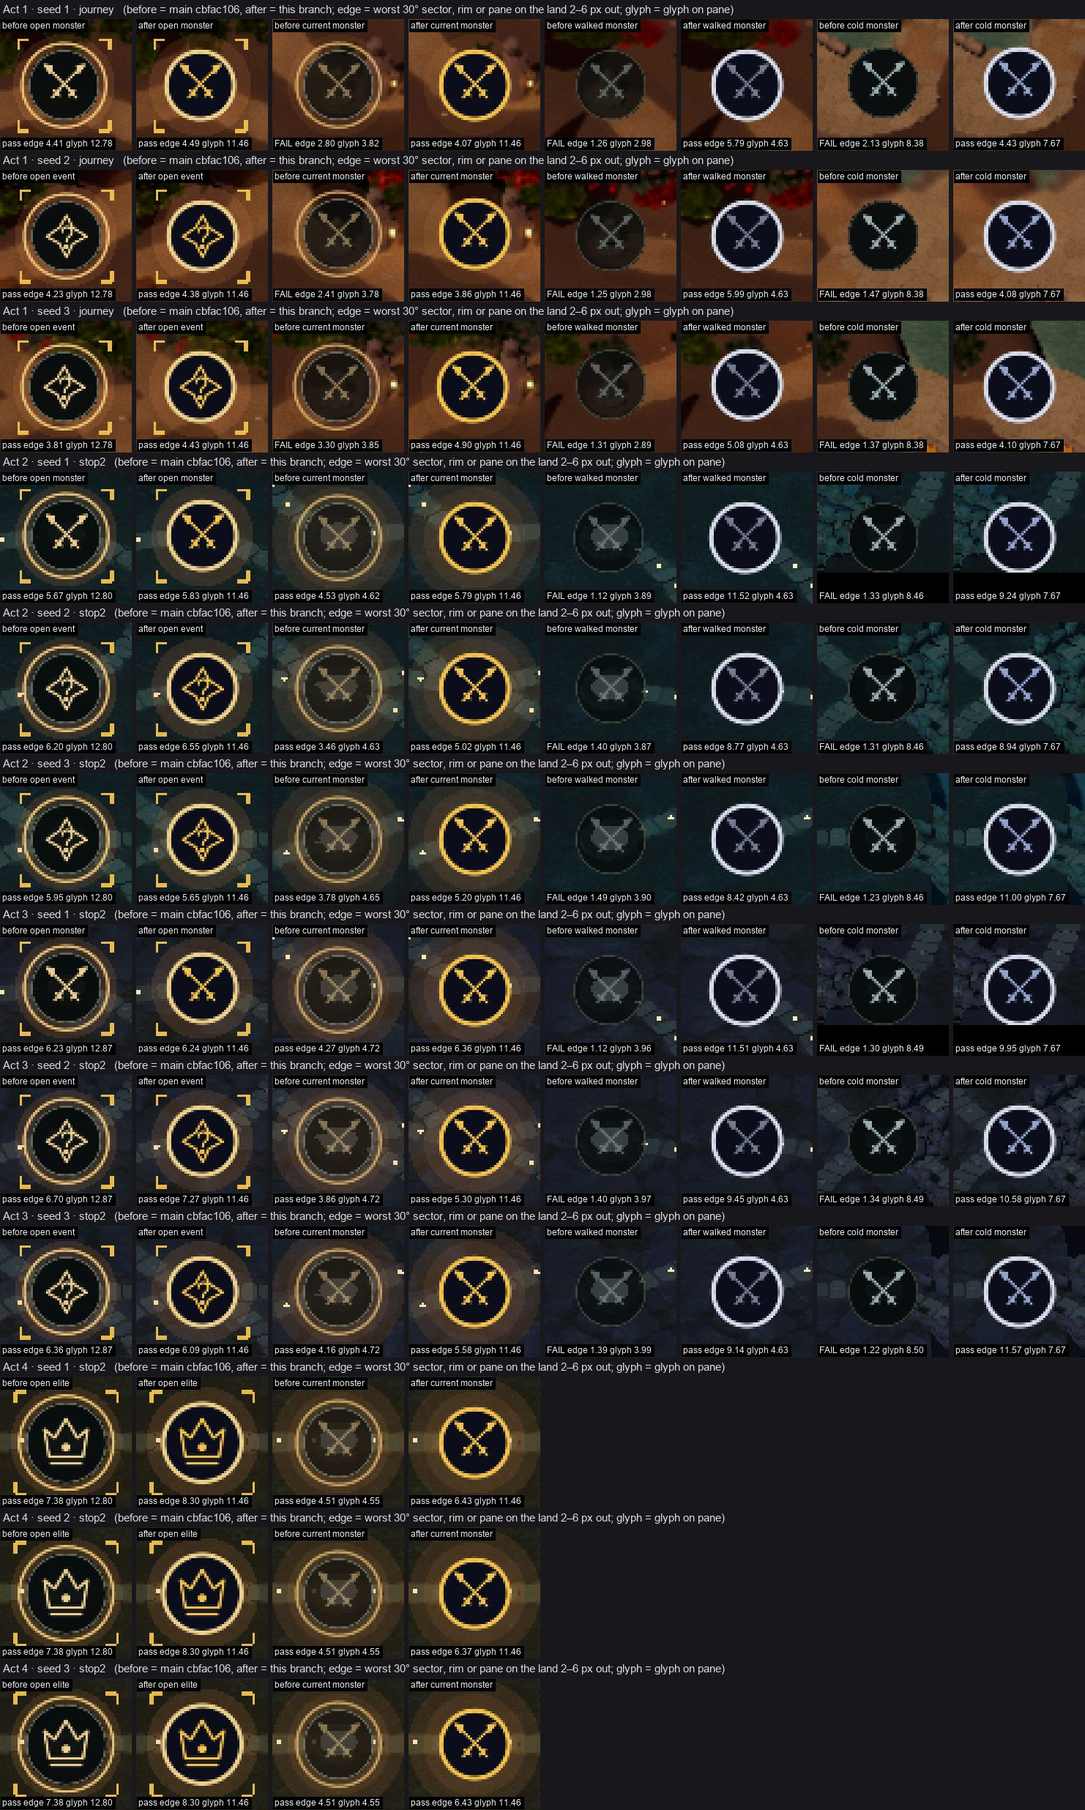
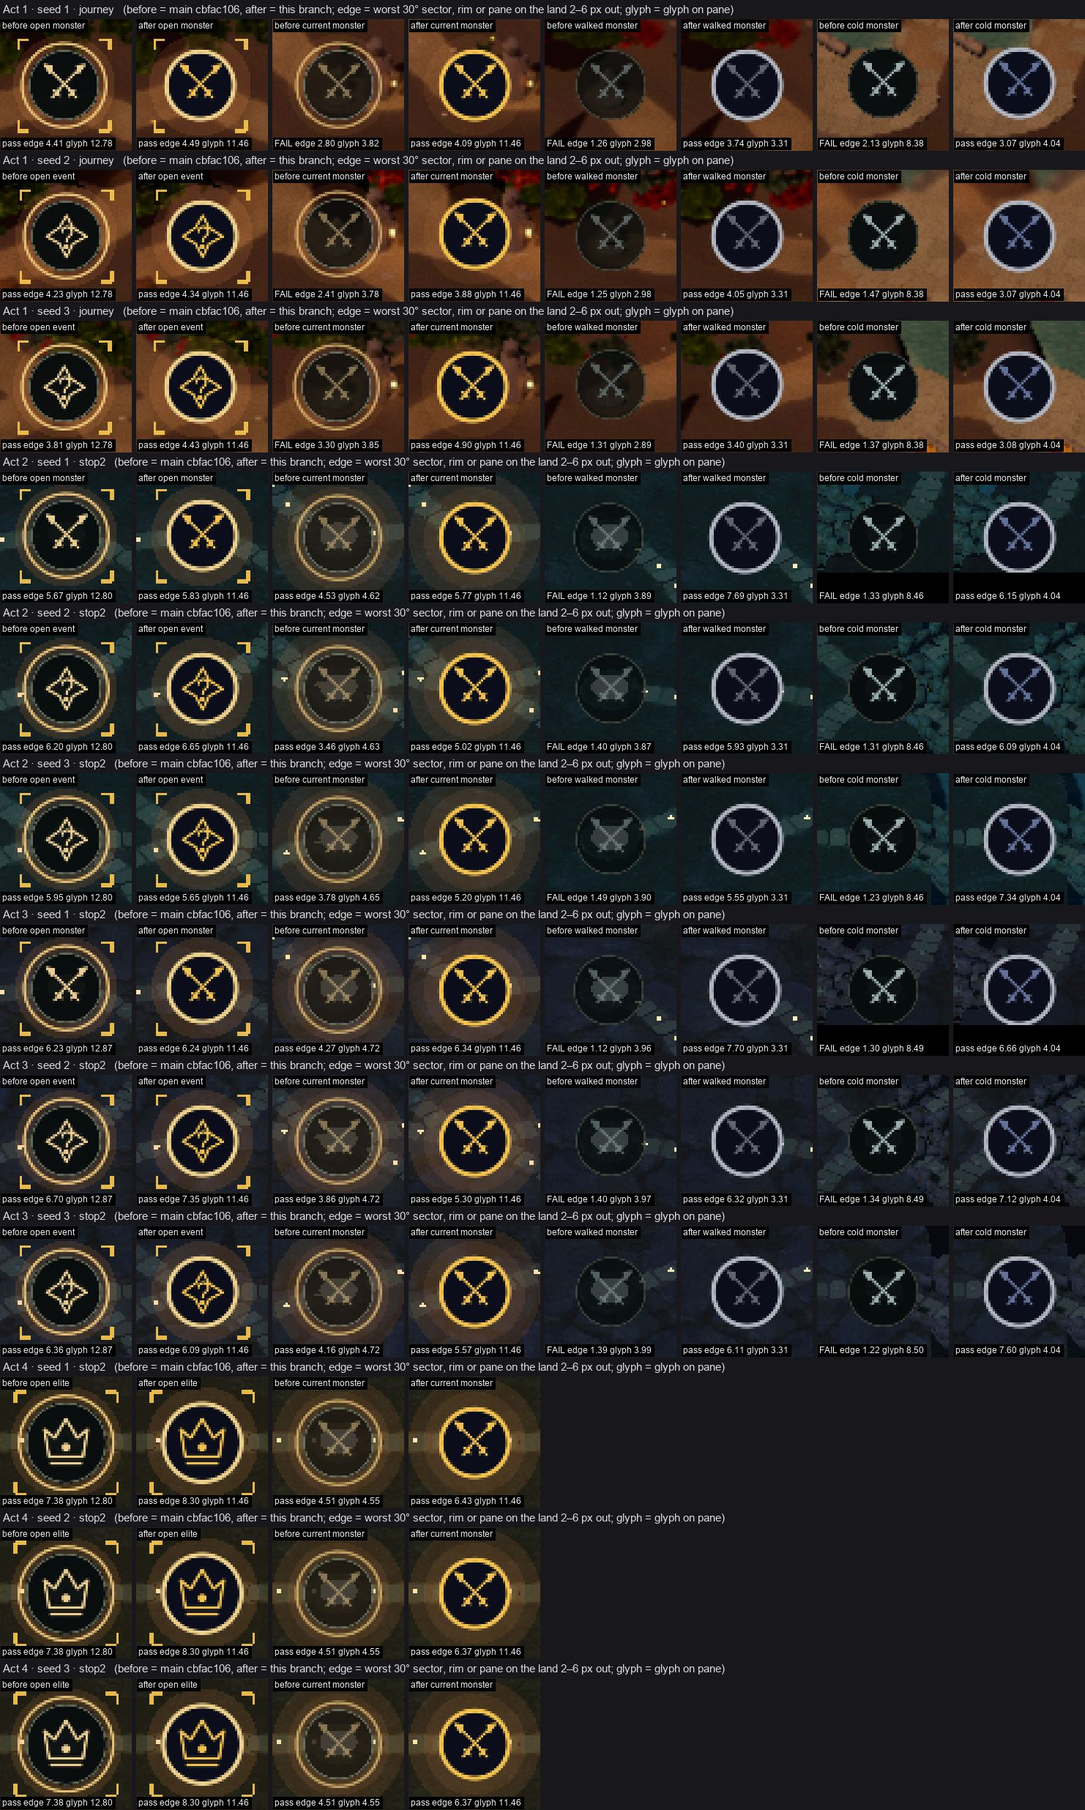
docs(map): the quieted waystones' sheets — salience at every act's farthest stop, the gate re-run, the A12 lines named (#679)
Re-made stills and crops from the revision's full sweep (Acts I-IV, seeds 1-3,
both shapes, every stop: 1,367 judged, 0 fail; main 1,226 of 1,368 fail), and
salience sheets of each act at its farthest stop, before | first head |
revision. The README carries the new tokens with their luminances and ratios,
the rim widths per state and shape, the worst case per state, the mutation
proof of the new hierarchy and width assertions, and names the pre-existing
A12 shader errors (map_mineral.gdshader's samplers in
SceneForwardMobileShaderRD) for #660.

Claude-Session: https://claude.ai/code/session_01VDGdkk2q7MUbD7C7M9D7go

diff --git a/docs/reviews/map-tokens-679/README.md b/docs/reviews/map-tokens-679/README.md
@@ -1,47 +1,66 @@
 # Waystone tokens (#679): before and after
 
-Issue #679, part of the map programme #660. Before is main at `cbfac106`;
-after is this branch. Everything here was measured on the Mac (M1 Max).
+Issue #679, part of the map programme #660. Before is main at `cbfac106`; the
+first head is `a3e2f0dd`; after is this branch's revision, which quiets the
+stones the player cannot choose (the orchestrator's design revision of
+5 October 2026). Everything here was measured on the Mac (M1 Max).
 
 ## The design as built
 
 Every state is an opaque disc in `LeadlightTokens.INK` with a thin light rim
-drawn inside the pane's radius (`GlassWaystone.RIM_W`, 3.5 local px: 2.0 px on
-the phone, 3.2 px on the pad), so the token covers no more ground than it did.
-There is no contact shadow (below). The ember halo of an open or current stone
-and the focus brackets are unchanged.
+drawn inside the pane's radius, so the token covers no more ground than it
+did. There is no contact shadow (below). The ember halo of an open or current
+stone and the focus brackets are unchanged.
 
-| State | Rim | Glyph | Rim on pane | Glyph on pane |
+| State | Rim | Rim luminance, on `INK` | Glyph | Glyph luminance, on `INK` |
 |---|---|---|---|---|
-| open | `GOLD`, its throb lifting it halfway to `PARCHMENT` (held at the peak under Reduce Motion) | `GOLD` | 11.5:1 to 12.8:1 | 11.5:1 |
-| current | `GOLD` | `GOLD` | 11.5:1 | 11.5:1 |
-| walked | `TEXT` (silver) | `TEXT_FAINT`, a new token (`#757c92`) | 14.0:1 | 4.6:1 |
-| cold | `TEXT` (silver) | `GLASS_TEXT_DIM` | 14.0:1 | 7.7:1 |
+| open | `GOLD #f2c14e`, its throb lifting it halfway to `PARCHMENT` (held at the peak under Reduce Motion) | 0.576–0.650, 11.5:1–12.8:1 | `GOLD` | 0.576, 11.5:1 |
+| current | `GOLD` | 0.576, 11.5:1 | `GOLD` | 0.576, 11.5:1 |
+| walked | `RIM_QUIET #b1b5c0` (new) | 0.462, 9.4:1 | `TEXT_FAINT #626570` (new): a near-neutral slate | 0.131, 3.3:1 |
+| cold | `RIM_QUIET` | 0.462, 9.4:1 | `GLASS_TEXT_FAINT #64729a` (new): a cool glass blue | 0.171, 4.0:1 |
+
+`INK` is 0.0046. The gold rim is 1.25 times the quiet rim's luminance.
+
+| Rim width on screen | phone (scale 0.58) | pad and desktop (0.92) |
+|---|---|---|
+| open, current (`RIM_W`, 3.5 local px) | 2.03 px | 3.22 px |
+| walked, cold (`QUIET_RIM_PX`) | 2.00 px | 2.00 px |
+
+The quiet width holds 2 px on screen through the draw scale the screen already
+passes to `set_touch_min`.
 
 A rim at 9:1 or more on its pane separates the token from any land at 3:1 or
 more: a land as dark as the pane meets the rim at 9:1, one as light as the rim
 meets the pane at 9:1, and in between the better of the two never falls below
-the square root of the rim's ratio. The lowest here is the gold rim's 3.39:1.
+the square root of the rim's ratio. That is 3.39:1 for the gold rim and 3.06:1
+for the quiet one, the least the design allows.
 
 ## The gate
 
-- **`tests/test_map_tokens.gd`** (headless suite): every state of every kind,
-  through `set_state`; an opaque pane, rim and glyph; the glyph on its pane at
-  4.5:1 or more (open, current) or 3:1 (walked, cold); the edge at 3:1 or more
-  on every land luminance from 0 to 1, at both ends of the open stone's throb;
-  the rim at least 2 px on screen at every shipping shape; and the map screen
-  gives each stone the state its node is in. It holds the token's colours; the
-  suite has no renderer, so the draw path is proved by the tool below.
+- **`tests/test_map_tokens.gd`** (headless suite):
+  - every state of every kind goes through `set_state`;
+  - the pane, rim and glyph are opaque;
+  - the glyph on its pane is at least 4.5:1 (open, current) or 3:1 (walked,
+    cold);
+  - the edge is at least 3:1 on every land luminance from 0 to 1, at both ends
+    of the open stone's throb;
+  - every rim is at least 2 px on screen at every shipping shape;
+  - the hierarchy: the dimmest lit rim is at least 1.2 times the luminance of
+    the brightest quiet one, and no quiet rim is wider on screen than a lit one;
+  - the map screen gives each stone the state its node is in.
+
+  It holds the token's colours and widths; the suite has no renderer, so the
+  draw path is proved by the tool below.
 - **`tools/map_token_gate.gd`** (rendered picture): the production map screen,
   lean profile, two steps in, at each zoom stop of the act (Act I's Close,
   Journey and Whole act; the painted acts' four camera stops). Each token is
   read from the capture: the glyph's 90th-percentile luminance (the pixels a
   second, glyph-less capture of the same frame changes) against the pane's
-  median; and in each 30° sector the better of the rim's core and the pane
-  against the median land 2–6 px beyond the token. Land excludes other tokens,
-  bounty pills and quest lenses; a token is not judged when its centre is off
-  frame, a quarter of its face is under another token or a pill, or fewer than
-  four sectors keep land.
+  median; and in each 30° sector the better of the rim's core (at the stone's
+  own rim width) and the pane against the median land 2–6 px beyond the token.
+  Land excludes other tokens, bounty pills and quest lenses; a token is not
+  judged when its centre is off frame, a quarter of its face is under another
+  token or a pill, or fewer than four sectors keep land.
 
 ## Result: Acts I–IV, seeds 1–3, phone and pad landscape, every zoom stop
 
@@ -49,40 +68,50 @@ On Vulkan (MoltenVK), Forward Mobile (see the A12 section for why). Before is
 main's tokens measured by the same tool with main's own geometry (the gold ring
 at `r + 5` is the open and current rim; the 1.2 px arc at `r − 1` is the rest).
 
-**Before: 1,368 tokens judged, 1,226 fail. After: 1,367 judged, 0 fail.**
-The worst after is Act IV, seed 3, pad, the nearest stop, the current stone:
-edge 3.55:1, glyph 11.46:1.
+**Before: 1,368 tokens judged, 1,226 fail. After: 1,367 judged, 0 fail.** (The
+first head was also 1,367 judged, 0 fail.)
+
+The worst after, per state:
+
+| State | Worst edge | Where | Worst glyph |
+|---|---|---|---|
+| open | 3.65:1 | Act I, seed 2, Whole act (both shapes) | 11.46:1 |
+| current | 3.52:1 | Act I, seed 2, phone, Whole act | 11.46:1 |
+| walked | 3.29:1 | Act I, seed 3, pad, Close | 3.31:1 |
+| cold | 3.06:1 (the design's floor, met by real land) | Act I, seed 2, phone, Journey | 3.60:1 (two unlit stones at the phone's farthest stop, part of the glyph under their bounty pill) |
+
+Before against after:
 
 | Act | Shape | State | Before: judged / failed / lowest edge / lowest glyph | After: judged / failed / lowest edge / lowest glyph |
 |---|---|---|---|---|
-| 1 | phone | open | 12 / 1 / 2.87 / 12.77 | 12 / 0 / 3.71 / 11.46 |
-| 1 | phone | current | 9 / 9 / 2.41 / 3.77 | 9 / 0 / 3.59 / 11.46 |
-| 1 | phone | walked | 9 / 9 / 1.23 / 2.89 | 9 / 0 / 5.08 / 4.63 |
-| 1 | phone | cold | 207 / 207 / 1.16 / 8.38 | 207 / 0 / 3.84 / 7.67 |
-| 1 | pad | open | 12 / 0 / 3.36 / 12.77 | 12 / 0 / 3.59 / 11.46 |
-| 1 | pad | current | 9 / 9 / 2.57 / 3.80 | 9 / 0 / 3.59 / 11.46 |
-| 1 | pad | walked | 9 / 9 / 1.28 / 2.90 | 9 / 0 / 5.03 / 4.63 |
-| 1 | pad | cold | 192 / 192 / 1.24 / 8.38 | 191 / 0 / 3.75 / 7.67 |
-| 2 | phone | open | 14 / 0 / 4.95 / 12.31 | 14 / 0 / 5.17 / 11.46 |
+| 1 | phone | open | 12 / 1 / 2.87 / 12.77 | 12 / 0 / 3.65 / 11.46 |
+| 1 | phone | current | 9 / 9 / 2.41 / 3.77 | 9 / 0 / 3.52 / 11.46 |
+| 1 | phone | walked | 9 / 9 / 1.23 / 2.89 | 9 / 0 / 3.38 / 3.31 |
+| 1 | phone | cold | 207 / 207 / 1.16 / 8.38 | 207 / 0 / 3.06 / 4.04 |
+| 1 | pad | open | 12 / 0 / 3.36 / 12.77 | 12 / 0 / 3.65 / 11.46 |
+| 1 | pad | current | 9 / 9 / 2.57 / 3.80 | 9 / 0 / 3.55 / 11.46 |
+| 1 | pad | walked | 9 / 9 / 1.28 / 2.90 | 9 / 0 / 3.29 / 3.31 |
+| 1 | pad | cold | 192 / 192 / 1.24 / 8.38 | 191 / 0 / 3.06 / 4.04 |
+| 2 | phone | open | 14 / 0 / 4.95 / 12.31 | 14 / 0 / 5.25 / 11.46 |
 | 2 | phone | current | 12 / 3 / 3.16 / 2.95 | 12 / 0 / 4.48 / 11.46 |
-| 2 | phone | walked | 11 / 11 / 1.03 / 2.33 | 11 / 0 / 7.95 / 4.63 |
-| 2 | phone | cold | 211 / 211 / 1.12 / 7.27 | 211 / 0 / 7.07 / 6.62 |
-| 2 | pad | open | 14 / 0 / 4.45 / 12.23 | 14 / 0 / 4.51 / 11.46 |
-| 2 | pad | current | 12 / 6 / 3.36 / 2.90 | 12 / 0 / 4.55 / 11.46 |
-| 2 | pad | walked | 9 / 9 / 1.05 / 2.33 | 9 / 0 / 8.04 / 4.63 |
-| 2 | pad | cold | 146 / 146 / 1.26 / 8.16 | 146 / 0 / 6.16 / 7.67 |
+| 2 | phone | walked | 11 / 11 / 1.03 / 2.33 | 11 / 0 / 5.32 / 3.31 |
+| 2 | phone | cold | 211 / 211 / 1.12 / 7.27 | 211 / 0 / 4.73 / 3.60 |
+| 2 | pad | open | 14 / 0 / 4.45 / 12.23 | 14 / 0 / 4.64 / 11.46 |
+| 2 | pad | current | 12 / 6 / 3.36 / 2.90 | 12 / 0 / 4.61 / 11.46 |
+| 2 | pad | walked | 9 / 9 / 1.05 / 2.33 | 9 / 0 / 5.37 / 3.31 |
+| 2 | pad | cold | 146 / 146 / 1.26 / 8.16 | 146 / 0 / 4.05 / 4.04 |
 | 3 | phone | open | 14 / 0 / 5.45 / 12.31 | 14 / 0 / 5.62 / 11.46 |
 | 3 | phone | current | 12 / 3 / 3.47 / 2.95 | 12 / 0 / 4.85 / 11.46 |
-| 3 | phone | walked | 11 / 11 / 1.12 / 2.33 | 11 / 0 / 8.86 / 4.63 |
-| 3 | phone | cold | 211 / 211 / 1.11 / 7.30 | 211 / 0 / 7.90 / 6.62 |
-| 3 | pad | open | 14 / 0 / 4.80 / 12.23 | 14 / 0 / 5.51 / 11.46 |
+| 3 | phone | walked | 11 / 11 / 1.12 / 2.33 | 11 / 0 / 5.84 / 3.31 |
+| 3 | phone | cold | 211 / 211 / 1.11 / 7.30 | 211 / 0 / 5.28 / 3.60 |
+| 3 | pad | open | 14 / 0 / 4.80 / 12.23 | 14 / 0 / 5.53 / 11.46 |
 | 3 | pad | current | 12 / 6 / 3.61 / 2.90 | 12 / 0 / 4.90 / 11.46 |
-| 3 | pad | walked | 9 / 9 / 1.24 / 2.33 | 9 / 0 / 8.86 / 4.63 |
-| 3 | pad | cold | 146 / 146 / 1.24 / 8.16 | 146 / 0 / 6.96 / 7.67 |
+| 3 | pad | walked | 9 / 9 / 1.24 / 2.33 | 9 / 0 / 5.93 / 3.31 |
+| 3 | pad | cold | 146 / 146 / 1.24 / 8.16 | 146 / 0 / 4.69 / 4.04 |
 | 4 | phone | open | 12 / 0 / 5.51 / 12.31 | 12 / 0 / 5.43 / 11.46 |
 | 4 | phone | current | 12 / 6 / 3.28 / 2.95 | 12 / 0 / 4.40 / 11.46 |
-| 4 | phone | walked | 3 / 3 / 1.43 / 3.99 | 3 / 0 / 11.28 / 4.63 |
-| 4 | phone | cold | 3 / 3 / 1.40 / 8.51 | 3 / 0 / 11.72 / 7.67 |
+| 4 | phone | walked | 3 / 3 / 1.43 / 3.99 | 3 / 0 / 7.54 / 3.31 |
+| 4 | phone | cold | 3 / 3 / 1.40 / 8.51 | 3 / 0 / 7.84 / 4.04 |
 | 4 | pad | open | 9 / 0 / 4.69 / 12.71 | 9 / 0 / 5.24 / 11.46 |
 | 4 | pad | current | 12 / 6 / 3.49 / 2.98 | 12 / 0 / 3.55 / 11.46 |
 
@@ -97,6 +126,18 @@ Every covered stone is in Act I, where a neighbouring stone or bounty pill lies
 across a quarter of its face (at seed 1's Whole act, a pill over an event
 stone's glyph). That placement is the chip band's and is untouched here.
 
+## Salience
+
+`salience-<phone|pad>.jpg`: each act at its farthest stop (Act I's Whole act,
+the painted acts' stop 3), seed 1, before | first head | revision. The first
+head made some sixty walked and cold stones carry the brightest element on the
+map, a `TEXT` rim at 14:1, as bright as the gold pair. In the revision the
+quiet rims are dimmer (0.462 against 0.716) and, on the pad, thinner (2.0 px
+against 3.2), and the glyphs inside them are faint, so the gold pair is the
+brightest thing on the map again. On the phone the quiet rim was already
+2.0 px wide, so there the change is the tone alone, and the rings still read
+as a pattern at Whole act, more quietly.
+
 ## The retired tripwire
 
 R3.1b re-baselined R2's ring check (rim band at `r − 5…r − 1` against the land
@@ -106,69 +147,99 @@ the token is drawn at 16.2 px, so the check's rim band, 23–27 px out, is land,
 and it compares land with land. On this lane's Act I Journey captures (seed 1,
 two steps in, R2's mount without the HUD), main reads the record's own
 figures, rim minimum phone 1.05 and pad 1.10 (the phone's lowest at the same
-pin, 266, 113). After: phone 1.05 (land against land, unchanged), pad 3.74.
+pin, 266, 113). The first head read phone 1.05 (land against land, unchanged)
+and pad 3.74.
 
 ## A12 condition
 
 `GODOT_MTL_DISABLE_ARGUMENT_BUFFERS=1 godot --rendering-driver metal
---rendering-method mobile`, the whole sweep again on the branch: 1,367 judged,
-0 fail, 0 script errors. Act I: 0 shader errors. Acts II–IV: 10 `Error
-compiling shader` lines per launch, `SceneForwardMobileShaderRD` with
-`m_mineral` and `m_groundcover` at sampler 17, in every launch of main and
-the branch alike (main checked at seed 1, every act and shape): the engine's
-A12 sampler limit on the official Mac 4.7.2 build, which the locally built
-iOS template fixes. This branch changes no shader. The Mac's default Metal
-renderer hits the same errors in the painted acts and draws them on a flat
-ground, which is why the main sweep ran on Vulkan, where every act's land
-draws as the device draws it.
+--rendering-method mobile`, the whole sweep on the first head: 1,367 judged,
+0 fail, 0 script errors, and 0 shader errors in Act I.
+
+Acts II–IV print 10 `Error compiling shader` lines per launch, identically on
+main (checked at seed 1, every act and shape). They are pre-existing on main
+and not this PR's: every one is `SceneForwardMobileShaderRD` with `m_mineral`
+and `m_groundcover` bound at sampler 17. That is the painted acts' shaded
+ground (`map_mineral.gdshader`) under the engine's A12 sampler limit on the
+official Mac 4.7.2 build, which the locally built iOS template fixes. This
+branch changes no shader.
+
+The Mac's default Metal renderer hits the same errors in the painted acts and
+draws them on a flat ground, which is why the main sweep ran on Vulkan, where
+every act's land draws as the device draws it.
 
 ## Frame time
 
 `tools/map_trace/probe.gd` armed by `qa_patch.py` on detached worktrees of
-main (`cbfac106`) and the branch's code commit (`789cda8e`, since rebased as `d1de3c18` onto main's TestFlight build bump, #689): Act I, seed 1, two
-steps in, lean, the cadence and live holds of 600 frames each, the Mac's
-default Metal renderer, three launches a build and shape, interleaved. The
+main (`cbfac106`) and the first head's code commit (`789cda8e`, later rebased
+as `d1de3c18` onto main's TestFlight build bump, #689). Act I, seed 1, two
+steps in, lean; the cadence and live holds of 600 frames each; the Mac's
+default Metal renderer; three launches a build and shape, interleaved. The
 frame interval in ms (median of the launches; missed = frames over 25 ms,
 summed):
 
-| Shape | Hold | main: mean / p50 / p95 (missed) | branch: mean / p50 / p95 (missed) |
+| Shape | Hold | main: mean / p50 / p95 (missed) | first head: mean / p50 / p95 (missed) |
 |---|---|---|---|
 | pad | cadence | 8.34 / 8.56 / 9.40 (3) | 8.33 / 8.55 / 9.51 (0) |
 | pad | live | 8.41 / 8.08 / 9.41 (4) | 8.34 / 8.07 / 9.41 (0) |
 | phone | cadence | 8.35 / 8.49 / 9.65 (0) | 8.68 / 8.54 / 9.64 (4) |
 | phone | live | 8.34 / 8.19 / 9.67 (0) | 8.37 / 8.15 / 9.85 (3) |
 
-Both builds sit on the 120 Hz display's vsync. The missed frames are hitches
-of 30–257 ms in both builds, 7 frames each: main's all at the pad, the
-branch's all at the phone, spread over different launches and holds on a host
-shared with other lanes, not a cost that follows the build. `--disable-vsync` does not lift
-the Mac's driver-level vsync (one launch each: the same 8.3 ms), so the
-interval bounds the token's cost rather than reading it. The 3D stage is
-untouched: identical draw calls and primitives (pad 80 / 57,890, phone 82 /
-55,240). Per stone, the 2D draw went from an aliased disc and one or two
-anti-aliased arcs (48 and 32 segments) to two anti-aliased discs. No shader
-changed, so the screen-texture readers and every spatial shader's samplers
-are as on main, and no device run was needed.
+- Both builds sit on the 120 Hz display's vsync.
+- The missed frames are hitches of 30–257 ms, 7 frames in each build: main's
+  all at the pad, the branch's all at the phone. They are spread over
+  different launches and holds on a host shared with other lanes, not a cost
+  that follows the build.
+- `--disable-vsync` does not lift the Mac's driver-level vsync (one launch
+  each: the same 8.3 ms), so the interval bounds the token's cost rather than
+  reading it.
+- The 3D stage is untouched: identical draw calls and primitives (pad 80 /
+  57,890, phone 82 / 55,240).
+- Per stone, the 2D draw went from an aliased disc plus one or two
+  anti-aliased arcs (48 and 32 segments) to two anti-aliased discs.
+- The revision changes only a quiet rim's colour and its inner disc's radius:
+  the same two discs, so it was not timed again.
+- No shader changed, so the screen-texture readers and every spatial shader's
+  samplers are as on main, and no device run was needed.
 
 ## Mutation proof
 
 Each mutation backed `glass_waystone.gd` up, broke it, ran the gate and
 copied the backup back.
 
-- `tests/test_map_tokens.gd` fails on each of: main's own colours, alphas and
-  rim width transcribed into the token tables (three checks: the land shows
-  through every state, the edge's worst land 2.59:1, the rim 0.70 px on the
-  phone); a dim silver rim (`TEXT_DIM`, 2.51:1); a translucent pane; a
-  half-alpha walked glyph; a dark open glyph; a glyph tint that ignores the
-  state; no walked state; a 3.0 px rim (1.74 px on the phone); a throb that
-  darkens the rim. Run literally against main, the test cannot load: main has
-  no token tables.
-- `tools/map_token_gate.gd`, Acts I and II at seed 1 on both shapes: a 1 px
-  rim drawn (the pane over all but 1 px) fails every token there (worst edge
-  1.00:1); a `TEXT_DIM` rim drawn fails 71 of 76, 66 of 73, 5 of 79 and 7 of 53
-  (worst edge 2.51–2.58:1).
-- The gate reads a live land: launch to launch a sector's edge moves by up to
-  0.3:1 (two launches compared row by row); every verdict held.
+`tests/test_map_tokens.gd`, at the revision, fails on each of 13 mutations:
+
+- the hierarchy and widths it now pins:
+  - a quiet rim as bright as `TEXT` (0.80 times the gold);
+  - a 4 px quiet rim (wider than the lit rim at every shape);
+  - a quiet rim width that ignores the draw scale (1.16 px on the phone,
+    1.84 px on the pad);
+- the checks it kept:
+  - main's own colours, alphas and widths transcribed into the token tables
+    (three checks fail);
+  - a `TEXT_DIM` quiet rim (edge 2.51:1);
+  - a translucent pane;
+  - a half-alpha walked glyph;
+  - a cold glyph under 3:1;
+  - a dark open glyph;
+  - a glyph tint that ignores the state;
+  - no walked state;
+  - a 3.0 px lit rim (1.74 px on the phone);
+  - a throb that darkens the rim.
+
+Run literally against main, the test cannot load: main has no token tables.
+The first head's nine headless mutations failed it the same way.
+
+`tools/map_token_gate.gd`, at the revision, Acts I and II at seed 1 on both
+shapes:
+
+- a 1 px rim drawn (the pane over all but 1 px) fails every token (worst edge
+  1.00–1.13:1);
+- a `TEXT_DIM` rim drawn fails 71 of 76, 66 of 73, 5 of 79 and 7 of 53 (worst
+  edge 2.51–2.58:1).
+
+The gate reads a live land: launch to launch a sector's edge moves by up to
+0.3:1 (two launches of the first head compared row by row); every verdict held.
 
 ## Contact sheets
 
@@ -176,25 +247,27 @@ copied the backup back.
 - `crops-<phone|pad>.jpg`: each state's token close up, every act and seed,
   at the default stop (Act I's Journey, the painted acts' stop 2), before |
   after, with each token's edge and glyph ratios and its verdict.
+- `salience-<phone|pad>.jpg`: each act at its farthest stop, before | first
+  head | revision.
 
-What they show: before, the cold and walked discs sink into the dark wood of
-Act I and the dark ground of the painted acts, and the walked and current
-stones are see-through. After, every stone reads as a ringed ink disc on every
-land, and the gold pair, open and current, is found by its hue. At Whole act
-some sixty silver rings stand across the map: every stone is legible, but the
-gold pair is no longer the only light on it, and in a still it is found by hue
-alone (in play the open stone's throb also carries it).
+Before, the cold and walked discs sink into the dark wood of Act I and the
+dark ground of the painted acts, and the walked and current stones are
+see-through. After, every stone reads as a ringed ink disc on every land; the
+gold pair, open and current, is the brightest; cold glyphs are a faint glass
+blue and walked ones a fainter grey.
 
 ## Judgements
 
-- **Silver is `TEXT`.** A greyer silver at the gold's own luminance (`#c3c8d4`)
-  was tried; side by side it read almost the same, and it would have been a new
-  token with less margin (3.39:1 on the worst land against 3.75:1). No token
-  dimmer than `TEXT` holds 9:1 on `INK`.
-- **`TEXT_FAINT` is new.** The walked glyph needed a tone quieter than the
-  cold one and still above 3:1; `TEXT_DIM` against `GLASS_TEXT_DIM` is a 25%
-  step that does not read. `#757c92` is the run text's third step, 4.6:1 on
-  `INK`.
+- **`RIM_QUIET #b1b5c0`** sits at 9.4:1, inside the revision's 9.0–9.5 band.
+  That gives the 1.2 times hierarchy (1.25) a margin, and puts the quiet rim's
+  worst land at 3.06:1. Real land reached that floor once in the sweep (cold,
+  Act I, seed 2, phone Journey), so there is no slack below it.
+- **Glyph tones were chosen by eye at Whole act.** `#687290` and `#606577`
+  (4.0:1 and 3.3:1, both bluish) were told apart by tone alone and barely. The
+  chosen pair adds hue: cold a saturated glass blue (`#64729a`), walked a
+  near-neutral slate (`#626570`).
+- **`TEXT_FAINT` was retuned, not kept at `#757c92`.** It was new in this PR,
+  and at 4.6:1 it would have been brighter than the cold glyph.
 - **No contact shadow.** It is optional in the issue; it would fall in the
   2–6 px the gate reads as land, and the rim and pane already meet every land.
 - **Open and current share the gold.** Open throbs and keeps its ember halo's
